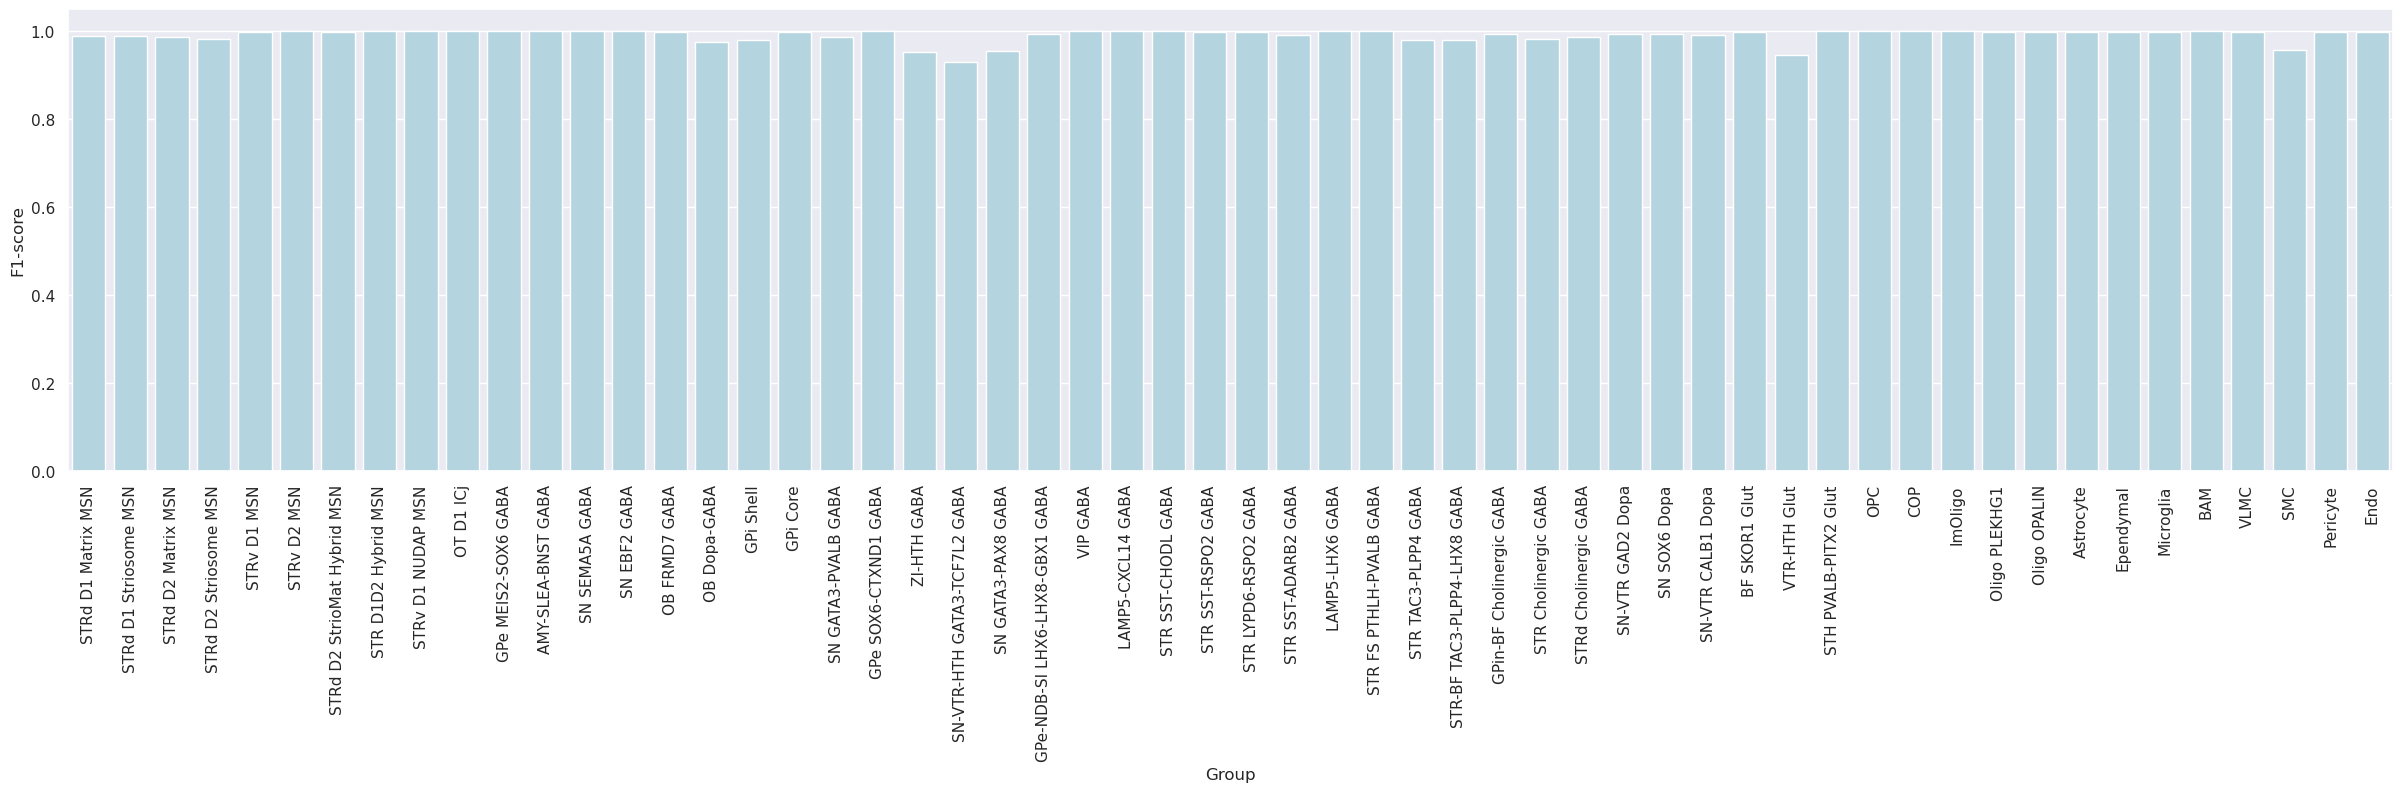
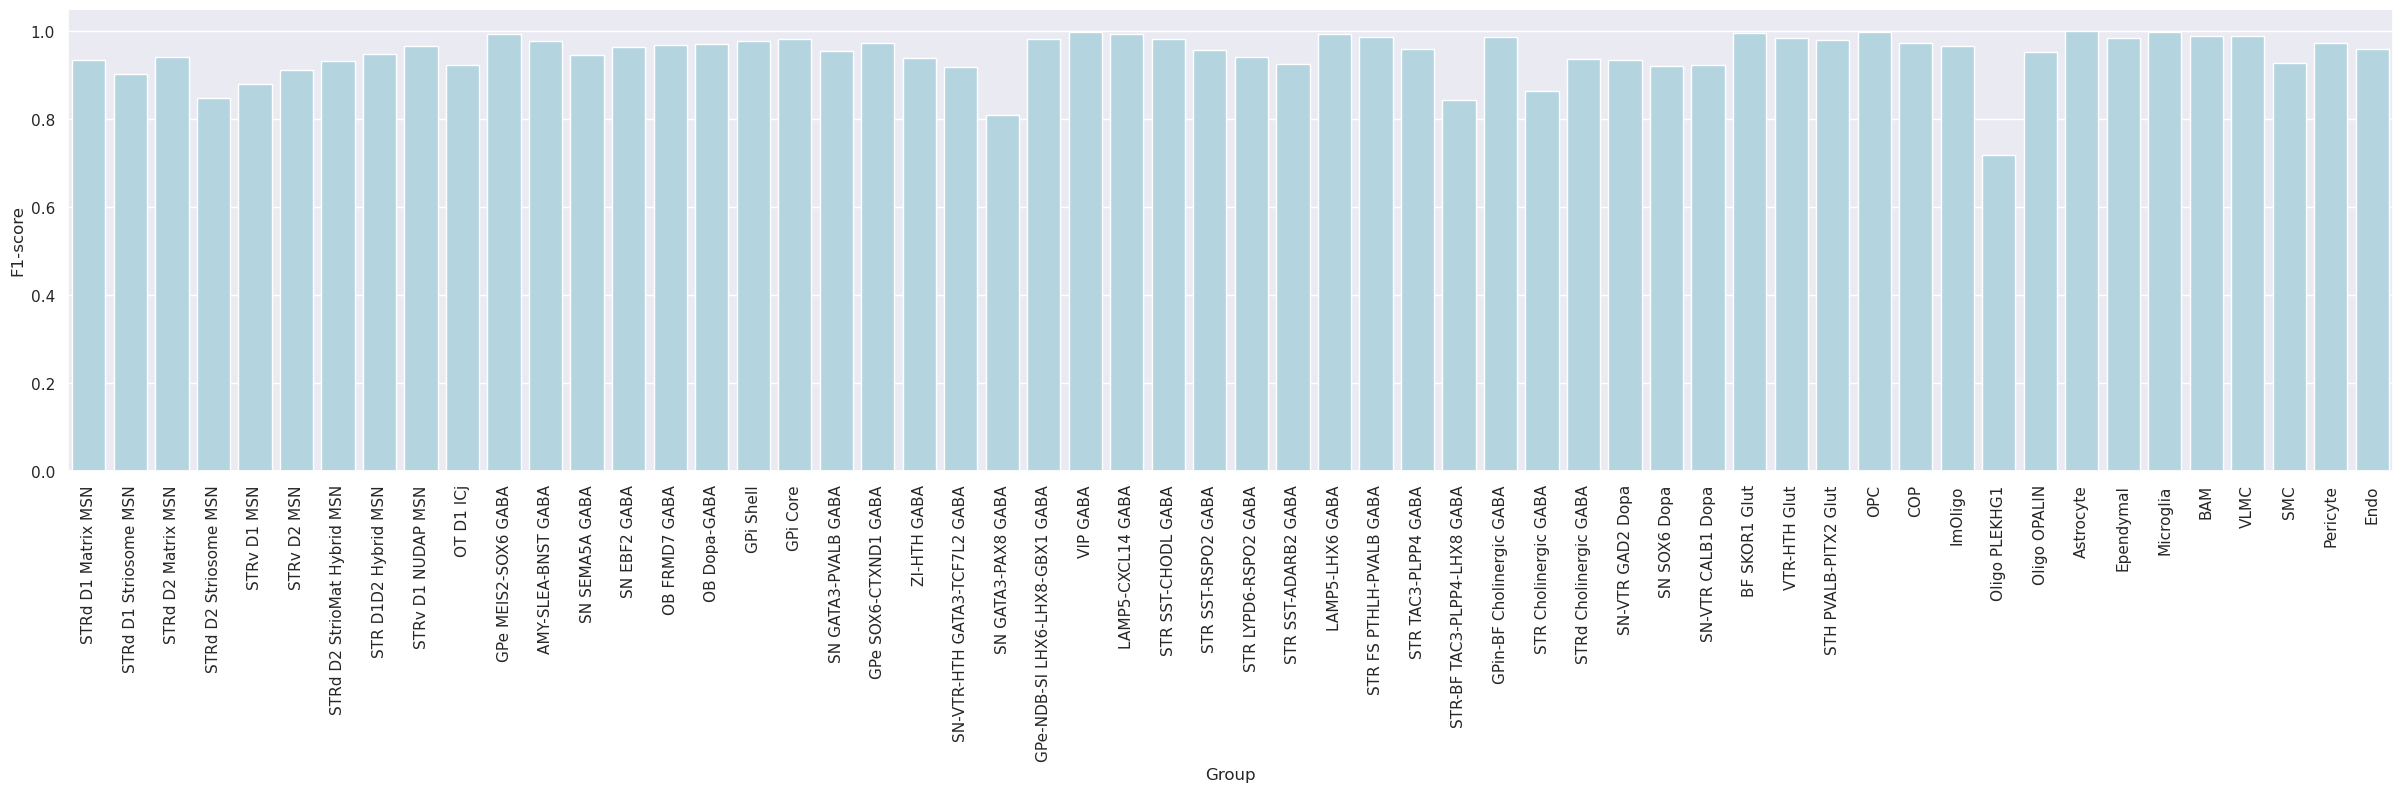
first commit

diff --git a/tutorial.md b/tutorial.md
@@ -1,14 +1,46 @@
 # Cell Type Mapping Evaluation on Allen Institute Taxonomies
 
-This is an example markdown file.
+<img src="./markdown_images/cell_tpes_logo.png" width="400">
 
-- Bullet list item
-- Another item
+The latest Allen Institute Basal Ganglia Taxonomy datasets released in Q2 2025 are used in this tutorial and are available [publicly for download](https://alleninstitute.github.io/HMBA_BasalGanglia_Consensus_Taxonomy). 
 
-**Bold text** and *italic text*.
+## Overview
+Allen Institute Taxonomies are defined by clusters of cells that meet criteria establishing a level of distinctness in the cells' transcriptomic signature. Application of a given taxonomy typically involves annotation of new cells against the cell type hierarchy, starting from clusters and moving up into broader cell categories. However, not all clusters are equal in how well they can be annotated onto new data for various reasons, such as cutting gradients or lacking distinct markers.
 
-![caption](./markdown_images/cell_tpes_logo.png)
-![caption](./markdown_images/cell_type_eval.png)
+***To provide transparency into taxonomy labeling and mapping algorithm biases and accuracies when mapping cell type labels using Allen Institute taxonomies as references, we have designed a cell type mapping evaluation procedure.*** The image below illustrates the idea of this tutorial, which is to evaluate cell type reproducibility by self-projecting the taxonomy. For each of the K-Fold smaller sets new marker genes are selected each time. The main question this tutorial answers is: "How reproducible and accurate are Allen Institute taxonomy labels when used for mapping new single-cell datasets, and how do biases in the mapping algorithm affect this process?"
 
+<img src="./markdown_images/cell_type_eval.png" width="400">
 
-[Link to OpenAI](https://openai.com)
+# Data
+This tutorial evaluates the Marmoset Basal Ganglia (et al. 2025) using Correlation and Hierarchical Mapping algorithms. However, **Human** and **Macaque** taxonomies are also shared. Marmoset is the smallest and therefore used for this tutorial. [Link to Human, Macaque, and Marmoset taxonomies] (https://alleninstitute.github.io/HMBA_BasalGanglia_Consensus_Taxonomy/)
+
+The marmoset taxonomy was initially built using the Basal Ganglia (BG) area single-nucleus dataset. In building the taxonomy, binary marker genes were selected based on their gene expression from the single-cell transcriptome. Subsequently, the dataset was mapped to itself, termed self-projection, for evaluating the ideal performance of correlation and hierarchical mapping algorithms.
+
+# Mapping Algorithms
+
+This tutorial uses two mapping algorithms:
+1. CORRELATION MAPPING: one-step nearest cluster centroid mapping based on correlation
+2. HIERARCHICAL CORRELATION MAPPING: hierarchical nearest cluster centroid mapping based on correlation
+
+Algorithm descriptions are available at: https://portal.brain-map.org/atlases-and-data/bkp/mapmycells/algorithms.
+
+# Results
+Below are the results of the analysis to evaluate the predictions of correlation and hierarchical mappings in determining cluster labels in a self-projection evaluation:
+
+<img src="./markdown_images/hierarchical_Group_figure_1.png">
+<img src="./markdown_images/hierarchical_Group_figure_2.png">
+<img src="./markdown_images/hierarchical_Group_figure_3.png">
+
+## To analyze the results:
+1. Most groups have very high F1-scores (>0.9), suggesting that your taxonomy mapping procedure works robustly across the majority of clusters.
+2. ***Confidence values*** from the models are a mostly reliable at distinguishing between True positives and False positives.
+3. A few groups dip below the bulk trend. For example, one oligodendrocyte cluster (ImOligo) looks like it has a noticeably lower F1-score compared to the others (closer to ~0.7–0.8).
+This suggests that these clusters are less reproducible in cross-validation, possibly because:
+- They overlap with neighboring subtypes (continuous gradients).
+- They lack distinct marker genes.
+- Sample size is smaller, which reduces stability.
+4. There is some confusion in the MSNs, specifically STRd D1 and STRd D2 MSNs.
+5. Lower F1-score groups should be flagged as “less stable” — they might require:
+- More robust marker selection,
+- Collapsing into broader categories,
+- Or additional orthogonal evidence (spatial localization, morphology).
